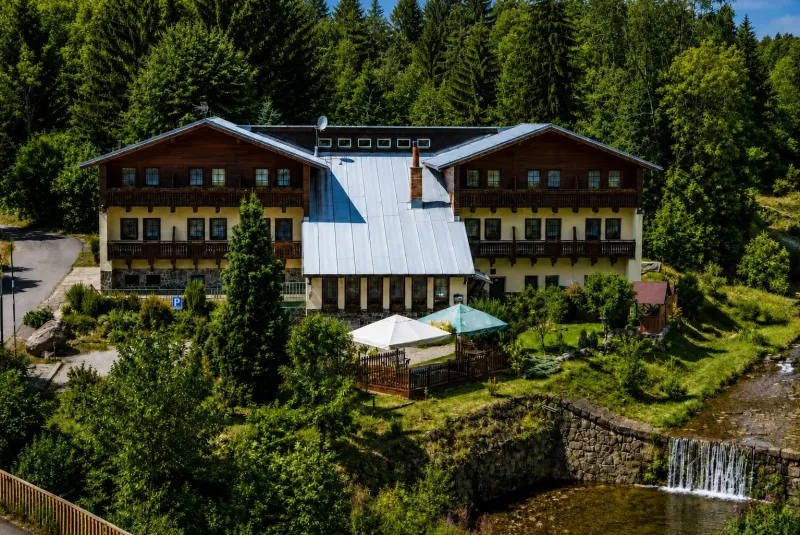
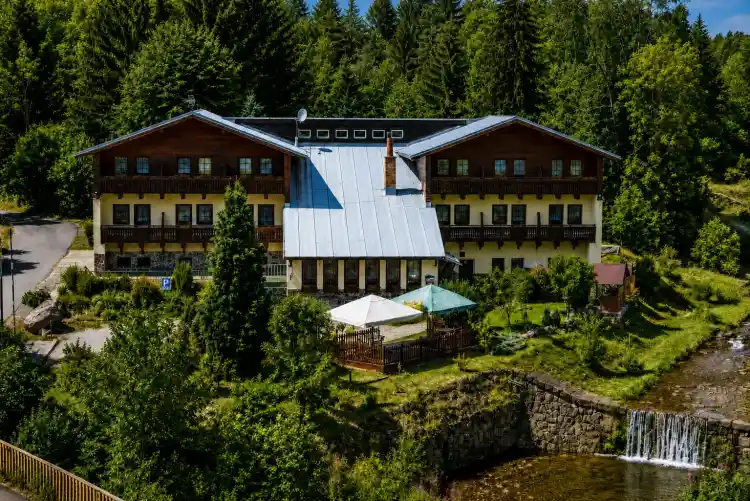
perf: optimize hero LCP - responsive head preload, deferred video loading, compressed mobile hero poster

diff --git a/src/main.js b/src/main.js
@@ -929,9 +929,8 @@ const getHomePageHTML = () => {
         muted 
         loop 
         playsinline 
-        preload="auto" 
-        poster="/uvodni_hero_sekce.webp"
-        fetchpriority="high"
+        preload="none" 
+        data-hero-video
         style="position: absolute; top: 0; left: 0; width: 100%; height: 100%; object-fit: cover; z-index: 1; background: transparent;"
       >
         <source src="https://jpvnvjcktpxyxrvsdukm.supabase.co/storage/v1/object/public/hotel-videos/hero_final_v5.mp4" type="video/mp4">
@@ -5265,3 +5264,15 @@ refreshActiveBanner().then(() => {
   initCookieManager();
   preloadAllCategoriesBackground();
 });
+
+
+  window.addEventListener('load', () => {
+    const v = document.querySelector('[data-hero-video]');
+    if (!v) return;
+    // Na pomalém připojení nebo v režimu úspory dat video vůbec nenačítat
+    const c = navigator.connection;
+    if (c && (c.saveData || /2g/.test(c.effectiveType || ''))) return;
+    v.preload = 'auto';
+    v.load();
+    v.play().catch(() => {});
+  });

diff --git a/index.html b/index.html
@@ -17,7 +17,9 @@
     <meta name="theme-color" content="#1c1c19" />
 
     <!-- High-Priority Preloading -->
-    <link rel="preload" href="/uvodni_hero_sekce.webp" as="image" fetchpriority="high">
+    <link rel="preload" as="image" href="/uvodni_hero_sekce.webp"
+          imagesrcset="/uvodni_hero_sekce_mobile.webp 767w, /uvodni_hero_sekce.webp 1535w"
+          imagesizes="100vw" fetchpriority="high">
 
     <!-- Open Graph -->
     <meta property="og:type" content="website" />
@@ -229,9 +231,8 @@
         muted 
         loop 
         playsinline 
-        preload="auto" 
-        poster="/uvodni_hero_sekce.webp"
-        fetchpriority="high"
+        preload="none" 
+        data-hero-video
         style="position: absolute; top: 0; left: 0; width: 100%; height: 100%; object-fit: cover; z-index: 1; background: transparent;"
       >
         <source src="https://jpvnvjcktpxyxrvsdukm.supabase.co/storage/v1/object/public/hotel-videos/hero_final_v5.mp4" type="video/mp4">
